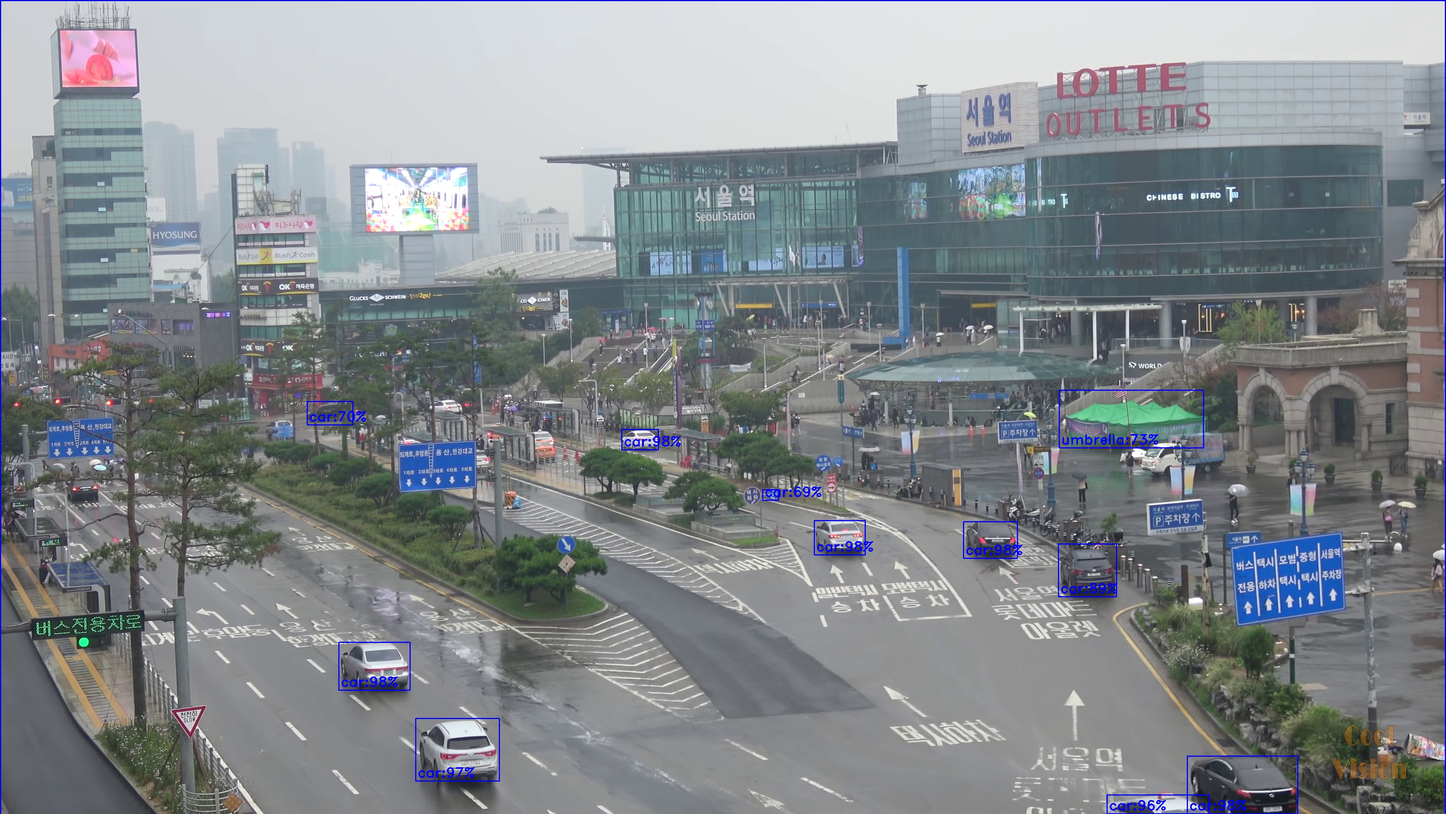
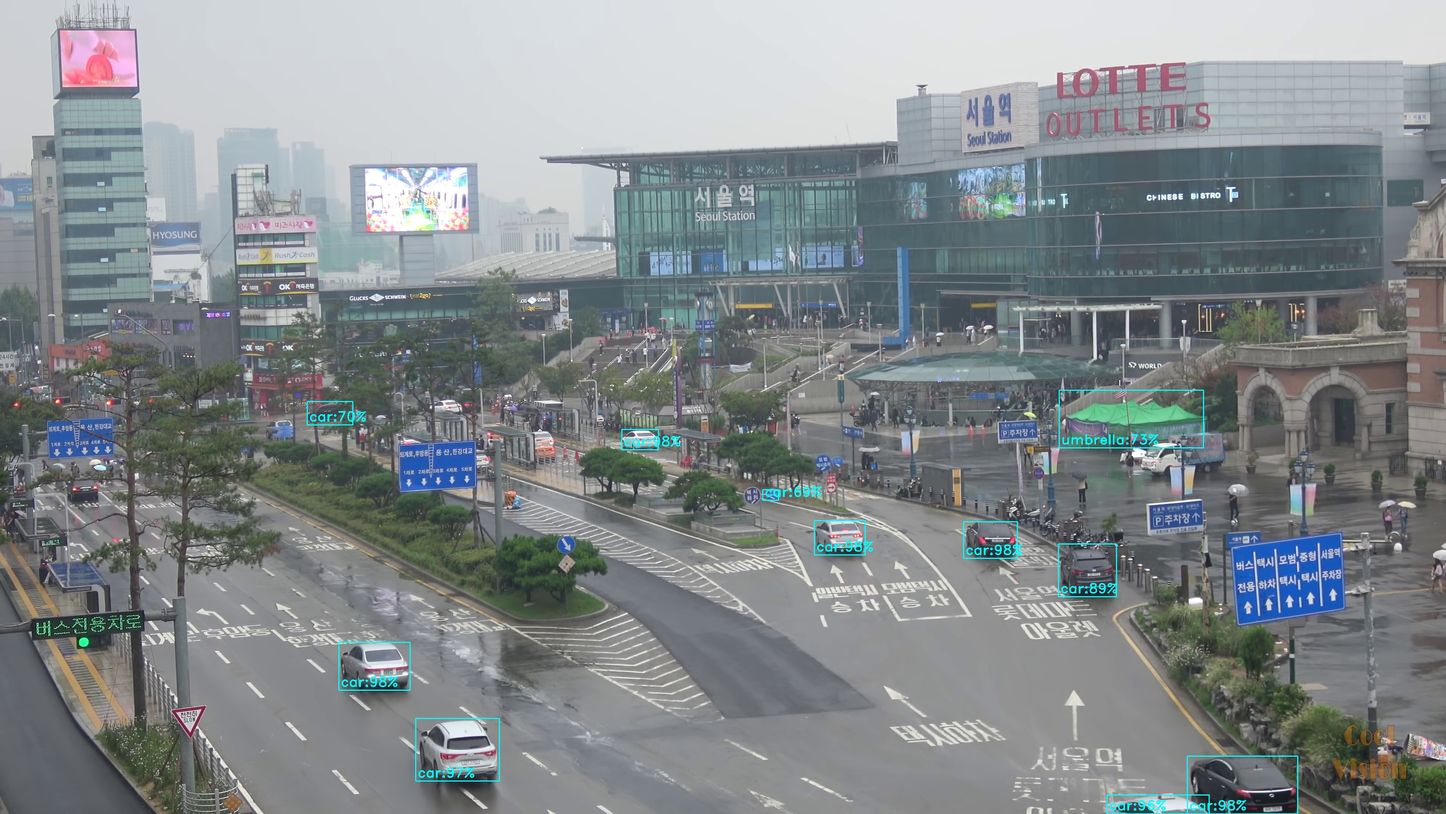
illustration update readme too

diff --git a/README.md b/README.md
@@ -4,11 +4,24 @@
 
 So we slice and dice, infer, then merge them back.
 
+### Before f2b
+
 If you just stuff a 4K image into a detector:
 ![noslice](illustrations/seoul-station_4K_det_noslice.jpg)
 
-After f2b:
+### After f2b
+
+Just **purely slice, dice and infer**
 ![f2bed](illustrations/seoul-station_4K_det_maxinfsize1333.jpg)
+
+After **deconflicting union** (at the overlapping regions)
+![f2bed_dcu](illustrations/seoul-station_4K_det_DCU80.jpg)
+
+**Final results!**
+![f2bed_dcu_nosmol](illustrations/seoul-station_4K_det_DCU80_nosmol.jpg)
+
+Just for comparison, here's the **no**-f2b version again..
+![noslice2](illustrations/seoul-station_4K_det_noslice.jpg)
 
 ## How to run
 
